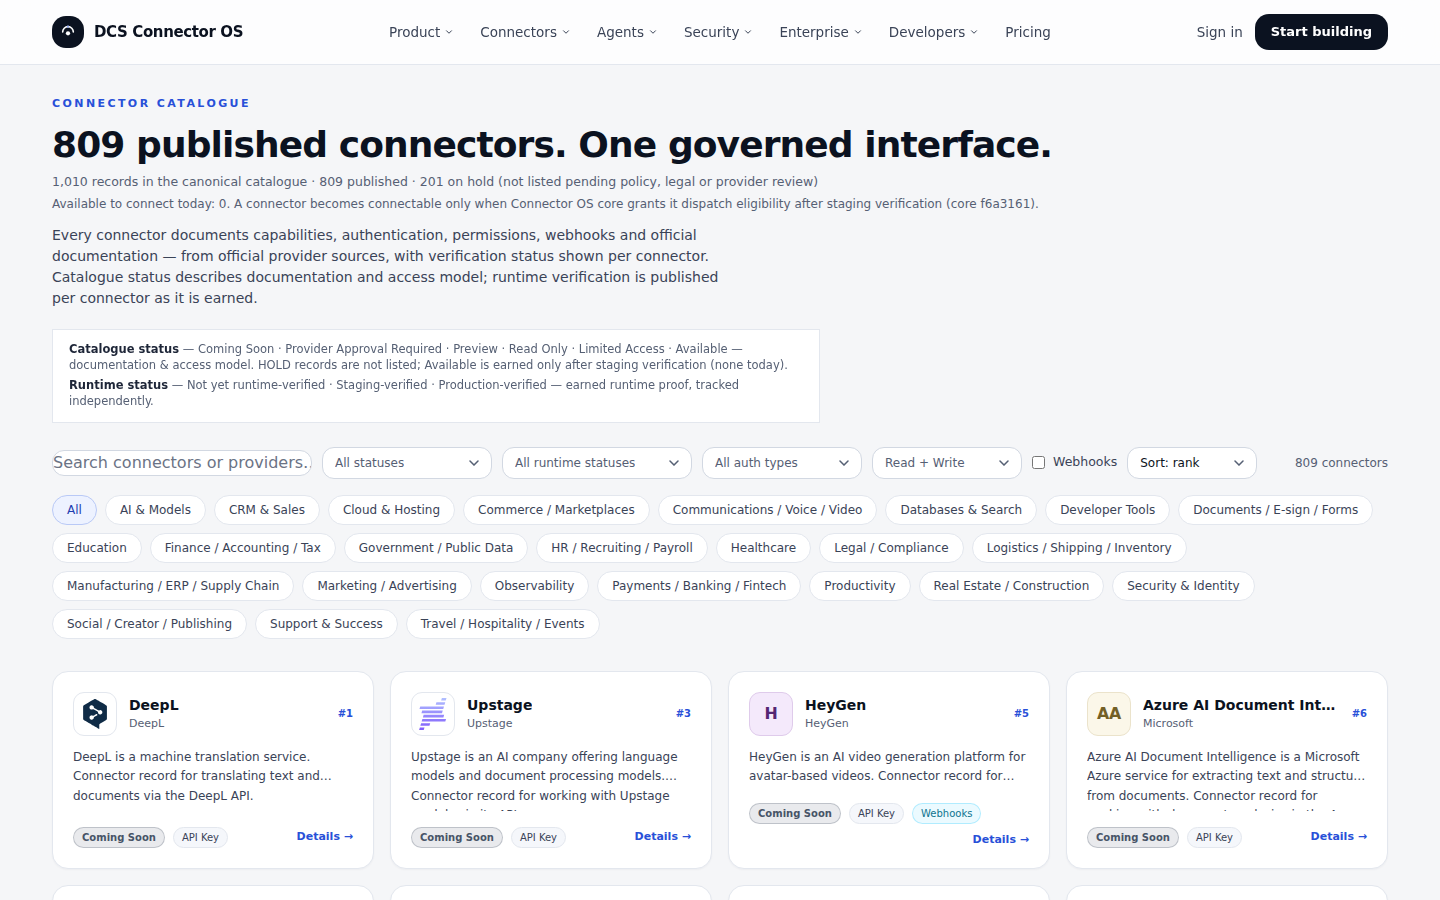
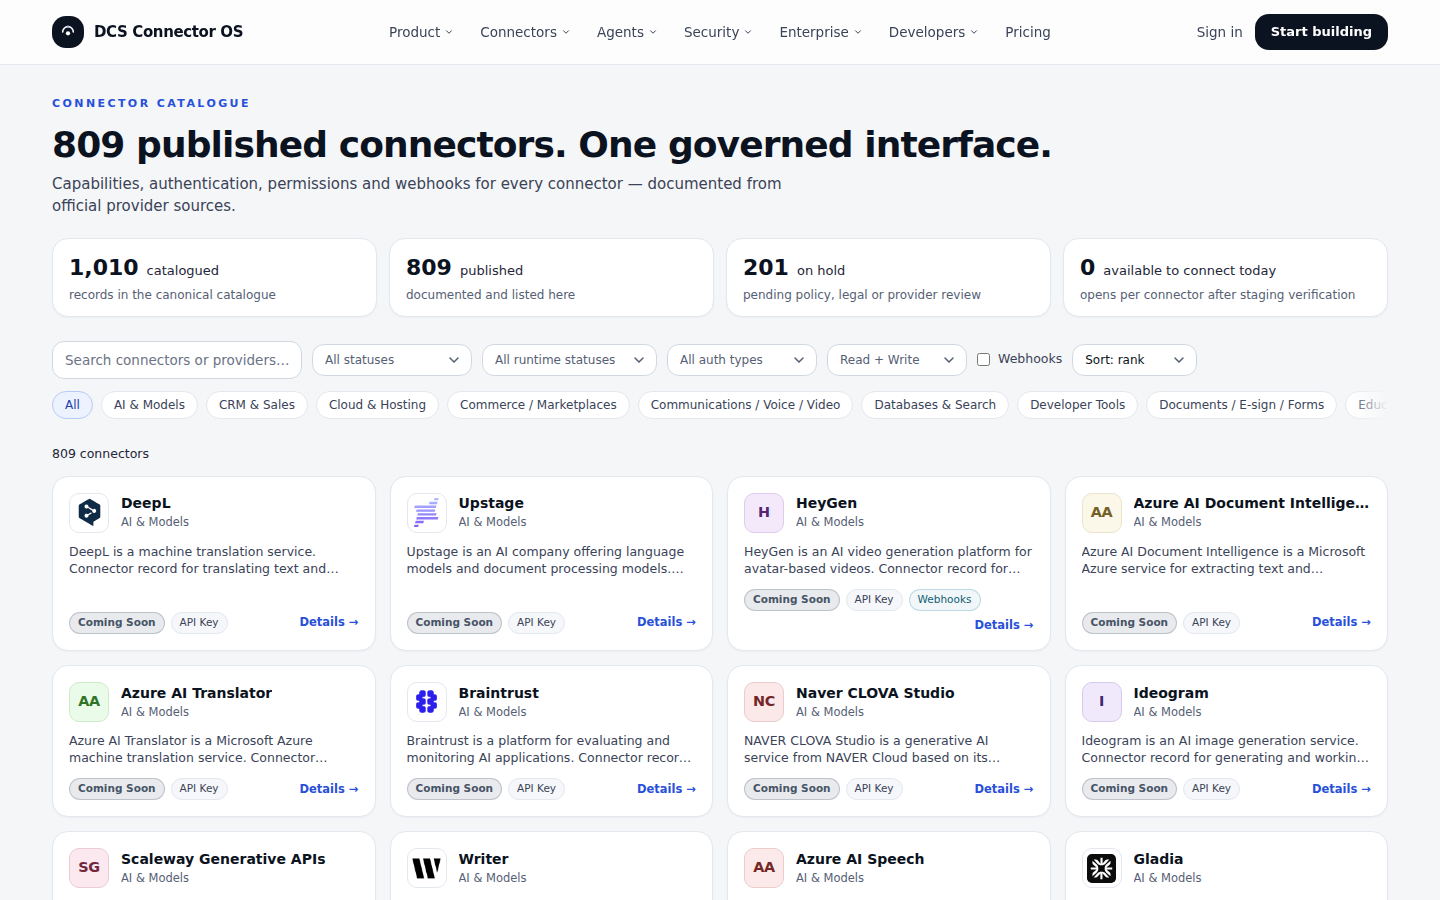
Catalogue page: compact header, stat tiles, one-row categories, tighter cards
- Header: heading + one line; counts become four derived stat tiles
  (catalogued / published / on hold / available to connect today)
- Status legend moves to a two-line note at the end of the page (with core head)
- Filters on one line; categories in one scrollable row instead of four;
  result count + Clear filters above the grid
- Cards: category instead of provider, 2-line description (clamp fixed),
  engineering rank moved off the card (still on the detail page); 4 per row
- Phone: compact tiles, filters behind a Filters (n) button; first card visible
  on the first screen; e2e covers the toggle

Claude-Session: https://claude.ai/code/session_014G6CRjB5deV2ypoDAYzgL6

diff --git a/src/pages/Connectors.tsx b/src/pages/Connectors.tsx
@@ -93,7 +93,9 @@ export function Connectors() {
   const [sort, setSort] = useState<'rank' | 'az'>('rank')
   const [shown, setShown] = useState(PAGE)
   const [legacyShown, setLegacyShown] = useState(LEGACY_PAGE)
+  const [filtersOpen, setFiltersOpen] = useState(false)
 
+  const activeFilters = [status, runtime, auth, rw].filter(Boolean).length + (wh ? 1 : 0)
   const filtered = useMemo(() => {
     let list = CONNECTORS.filter((c) =>
       (cat === 'All' || c.cat === cat) &&
@@ -128,73 +130,95 @@ export function Connectors() {
     <div className="pt-24 pb-16">
       <div className="mx-auto max-w-[1400px] px-4 sm:px-8">
         <div className="eyebrow mb-3">Connector catalogue</div>
-        <h1 className="text-4xl font-semibold tracking-tight text-[#0B1220]">{PUBLISHED_COUNT} published connectors. One governed interface.</h1>
-        <p className="mt-2 text-[12.5px] text-[#566074]" data-testid="catalogue-counts">
-          {TOTAL_CATALOGUED.toLocaleString('en-US')} records in the canonical catalogue · {PUBLISHED_COUNT} published · {UNPUBLISHED_COUNT} on hold (not listed pending policy, legal or provider review)
-        </p>
-        <p className="mt-1 text-[12px] text-[#566074]" data-testid="availability-line">
-          Available to connect today: {AVAILABLE_TO_CONNECT_COUNT}. A connector becomes connectable only when Connector OS core grants it dispatch eligibility after staging verification{CORE_HEAD ? ` (core ${CORE_HEAD.slice(0, 7)})` : ''}.
-        </p>
-        <p className="mt-3 max-w-2xl text-[14px] text-[#3A4357]">
-          Every connector documents capabilities, authentication, permissions, webhooks and official documentation — from official provider sources, with verification status shown per connector. Catalogue status describes documentation and access model; runtime verification is published per connector as it is earned.
+        <h1 className="text-[26px] leading-tight sm:text-4xl font-semibold tracking-tight text-[#0B1220]">{PUBLISHED_COUNT} published connectors. One governed interface.</h1>
+        <p className="mt-2 max-w-3xl text-[14px] sm:text-[15px] text-[#3A4357]">
+          Capabilities, authentication, permissions and webhooks for every connector — documented from official provider sources.
         </p>
 
-        {/* Legend: catalogue status (6) vs runtime status (3) — two independent fields, never merged.
-             This legend is static copy by design: it does NOT change with the claim level. */}
-        <div className="mt-5 glass-panel px-4 py-3 text-[11.5px] leading-snug text-[#566074] max-w-3xl">
-          <div><span className="font-semibold text-[#1E2638]">Catalogue status</span> — Coming Soon · Provider Approval Required · Preview · Read Only · Limited Access · Available — documentation &amp; access model. HOLD records are not listed; Available is earned only after staging verification (none today).</div>
-          <div className="mt-1"><span className="font-semibold text-[#1E2638]">Runtime status</span> — Not yet runtime-verified · Staging-verified · Production-verified — earned runtime proof, tracked independently.</div>
-        </div>
+        {/* every figure is derived from the core-generated catalogue */}
+        <dl className="mt-5 grid grid-cols-2 lg:grid-cols-4 gap-2 sm:gap-3" data-testid="catalogue-counts"
+          aria-label={`${TOTAL_CATALOGUED.toLocaleString('en-US')} records in the canonical catalogue · ${PUBLISHED_COUNT} published · ${UNPUBLISHED_COUNT} on hold`}>
+          {[
+            { k: TOTAL_CATALOGUED.toLocaleString('en-US'), v: 'catalogued', d: 'records in the canonical catalogue' },
+            { k: String(PUBLISHED_COUNT), v: 'published', d: 'documented and listed here' },
+            { k: String(UNPUBLISHED_COUNT), v: 'on hold', d: 'pending policy, legal or provider review' },
+            { k: String(AVAILABLE_TO_CONNECT_COUNT), v: 'available to connect today', d: 'opens per connector after staging verification', testid: 'availability-line' },
+          ].map((x) => (
+            <div key={x.v} className="glass-card px-3 py-2 sm:px-4 sm:py-3" data-testid={x.testid}>
+              <dt className="sr-only">{x.v}</dt>
+              <dd className="flex items-baseline gap-2"><span className="text-[19px] sm:text-[22px] font-semibold tabular-nums text-[#0B1220]">{x.k}</span><span className="text-[12.5px] sm:text-[13px] font-medium text-[#1E2638] leading-tight">{x.v}</span></dd>
+              <dd className="mt-0.5 hidden sm:block text-[12px] text-[#566074]">{x.d}</dd>
+            </div>
+          ))}
+        </dl>
 
         <div className="mt-6 flex flex-wrap items-center gap-2.5">
-          <input value={q} onChange={(e) => { setQ(e.target.value); setShown(PAGE) }} placeholder="Search connectors or providers…" aria-label="Search connectors" className="dcs-input w-full sm:w-[260px]" />
-          <FilterSelect ariaLabel="Catalogue status filter" width={170} value={status}
+          <div className="flex w-full gap-2 sm:w-auto">
+            <input value={q} onChange={(e) => { setQ(e.target.value); setShown(PAGE) }} placeholder="Search connectors or providers…" aria-label="Search connectors" className="dcs-input min-w-0 flex-1 sm:w-[250px] sm:flex-none px-3 py-2 text-[13.5px]" />
+            <button type="button" className="chip sm:hidden !rounded-xl" aria-expanded={filtersOpen} aria-controls="catalogue-filters" onClick={() => setFiltersOpen((o) => !o)}>
+              Filters{activeFilters ? ` (${activeFilters})` : ''}
+            </button>
+          </div>
+          <div id="catalogue-filters" className={`${filtersOpen ? 'flex' : 'hidden'} sm:contents flex-wrap items-center gap-2.5`}>
+          <FilterSelect ariaLabel="Catalogue status filter" width={160} value={status}
             onChange={(v) => { setStatus(v); setShown(PAGE) }}
             options={[{ value: '', label: 'All statuses' }, ...STATUSES.map((s) => ({ value: s, label: s }))]} />
-          <FilterSelect ariaLabel="Runtime status filter" width={190} value={runtime}
+          <FilterSelect ariaLabel="Runtime status filter" width={175} value={runtime}
             onChange={(v) => { setRuntime(v); setShown(PAGE) }}
             options={[{ value: '', label: 'All runtime statuses' }, ...RUNTIME_STATUSES.map((s) => ({ value: s, label: s }))]} />
-          <FilterSelect ariaLabel="Authentication filter" width={160} value={auth}
+          <FilterSelect ariaLabel="Authentication filter" width={150} value={auth}
             onChange={(v) => { setAuth(v); setShown(PAGE) }}
             options={[{ value: '', label: 'All auth types' }, ...AUTH_TYPES.map((a) => ({ value: a, label: a }))]} />
-          <FilterSelect ariaLabel="Read/write filter" width={150} value={rw}
+          <FilterSelect ariaLabel="Read/write filter" width={140} value={rw}
             onChange={(v) => { setRw(v); setShown(PAGE) }}
             options={[{ value: '', label: 'Read + Write' }, { value: 'Read only', label: 'Read only' }, { value: 'write', label: 'Supports write' }]} />
           <label className="flex items-center gap-2 text-[12.5px] text-[#3A4357] cursor-pointer">
             <input type="checkbox" checked={wh} onChange={(e) => { setWh(e.target.checked); setShown(PAGE) }} className="accent-[#2850D8]" /> Webhooks
           </label>
-          <FilterSelect ariaLabel="Sort order" width={130} value={sort}
+          <FilterSelect ariaLabel="Sort order" width={125} value={sort}
             onChange={(v) => setSort(v as 'rank' | 'az')}
             options={[{ value: 'rank', label: 'Sort: rank' }, { value: 'az', label: 'Sort: A–Z' }]} />
-          <span className="ml-auto text-[12px] text-[#566074]" data-testid="result-count">{filtered.length} connectors</span>
+          </div>
         </div>
 
-        <div className="mt-4 flex flex-wrap gap-2">
-          {CATEGORIES.map((c) => (
-            <button key={c} onClick={() => { setCat(c); setShown(PAGE) }} className={`chip ${cat === c ? 'active' : ''}`}>{c}</button>
-          ))}
+        {/* categories: one scrollable row instead of four wrapped rows */}
+        <div className="relative mt-3">
+          <div className="flex gap-2 overflow-x-auto pb-1.5 [scrollbar-width:thin]" role="group" aria-label="Category">
+            {CATEGORIES.map((c) => (
+              <button key={c} onClick={() => { setCat(c); setShown(PAGE) }} aria-pressed={cat === c} className={`chip shrink-0 whitespace-nowrap !py-1 !px-3 ${cat === c ? 'active' : ''}`}>{c}</button>
+            ))}
+          </div>
+          <div aria-hidden className="pointer-events-none absolute right-0 top-0 bottom-1.5 w-10" style={{ background: 'linear-gradient(90deg, rgba(245,246,248,0), #F5F6F8)' }} />
         </div>
 
-        <div className="mt-8 grid grid-cols-1 sm:grid-cols-2 lg:grid-cols-3 xl:grid-cols-4 gap-4">
+        <div className="mt-5 flex items-center gap-3 text-[12.5px] text-[#566074]">
+          <span data-testid="result-count" className="font-medium text-[#1E2638]">{filtered.length} connectors</span>
+          {(q || cat !== 'All' || status || runtime || auth || rw || wh) && (
+            <button type="button" className="font-semibold text-[#2850D8] hover:underline"
+              onClick={() => { setQ(''); setCat('All'); setStatus(''); setRuntime(''); setAuth(''); setRw(''); setWh(false); setShown(PAGE) }}>Clear filters</button>
+          )}
+        </div>
+
+        <div className="mt-3 grid grid-cols-1 sm:grid-cols-2 lg:grid-cols-3 xl:grid-cols-4 gap-3.5">
           {filtered.slice(0, shown).map((c: Conn) => (
-            <a key={c.id} href={`/connectors/${c.id}`} className="glass-card glass-card-hover p-5 flex flex-col">
-              <div className="flex items-center gap-3 mb-3">
-                <ConnectorLogo name={c.n} src={c.logo} size={44} />
+            <a key={c.id} href={`/connectors/${c.id}`} className="glass-card glass-card-hover p-4 flex flex-col">
+              <div className="flex items-center gap-3">
+                <ConnectorLogo name={c.n} src={c.logo} size={40} />
                 <div className="min-w-0">
                   <div className="text-[14px] font-semibold text-[#0B1220] truncate">{c.n}</div>
-                  <div className="text-[11px] text-[#566074] truncate">{c.p}</div>
+                  <div className="text-[11.5px] text-[#566074] truncate">{c.cat}</div>
                 </div>
-                <span className="ml-auto text-[10px] font-bold text-[#2850D8]" title={c.r == null ? `Unranked in core (${c.core?.pack ?? 'no pack'})` : 'Core engineering rank'}>{c.r == null ? c.core?.pack === 'GOLDEN-FIVE' ? 'Golden Five' : 'Unranked' : `#${c.r}`}</span>
               </div>
-              <p className="text-[12px] leading-relaxed text-[#3A4357] line-clamp-2 flex-1">{c.d}</p>
-              <div className="mt-4 flex items-center gap-2 flex-wrap">
-                <span className="text-[10px] font-semibold px-2 py-0.5 rounded-full" style={{ color: statusColor(c.s), background: `${statusColor(c.s)}1f`, border: `1px solid ${statusColor(c.s)}44` }}>{c.s}</span>
+              <p className="mt-2.5 text-[12.5px] leading-snug text-[#3A4357] line-clamp-2">{c.d}</p>
+              <div className="flex-1" />
+              <div className="mt-3 flex items-center gap-1.5 flex-wrap">
+                <span className="text-[10.5px] font-semibold px-2 py-0.5 rounded-full" style={{ color: statusColor(c.s), background: `${statusColor(c.s)}1f`, border: `1px solid ${statusColor(c.s)}44` }}>{c.s}</span>
                 {c.runtime_status && c.runtime_status !== 'not_verified' && (
-                  <span className="text-[10px] px-2 py-0.5 rounded-full text-[#566074]" style={{ background: '#F5F7FB', border: '1px solid #E3E7EE' }}>{runtimeStatusLabel(c)}</span>
+                  <span className="text-[10.5px] px-2 py-0.5 rounded-full text-[#566074]" style={{ background: '#F5F7FB', border: '1px solid #E3E7EE' }}>{runtimeStatusLabel(c)}</span>
                 )}
-                <span className="text-[10px] px-2 py-0.5 rounded-full text-[#3A4357]" style={{ background: '#F5F7FB', border: '1px solid #E3E7EE' }}>{c.auth}</span>
-                {c.wh && <span className="text-[10px] px-2 py-0.5 rounded-full text-[#0E7490]" style={{ background: 'rgba(0,194,255,0.08)', border: '1px solid rgba(0,194,255,0.25)' }}>Webhooks</span>}
-                <span className="ml-auto text-[11px] font-semibold text-[#2850D8]">Details →</span>
+                <span className="text-[10.5px] px-2 py-0.5 rounded-full text-[#3A4357]" style={{ background: '#F5F7FB', border: '1px solid #E3E7EE' }}>{c.auth}</span>
+                {c.wh && <span className="text-[10.5px] px-2 py-0.5 rounded-full text-[#155E75]" style={{ background: 'rgba(14,116,144,0.06)', border: '1px solid rgba(14,116,144,0.22)' }}>Webhooks</span>}
+                <span className="ml-auto text-[11.5px] font-semibold text-[#2850D8]">Details →</span>
               </div>
             </a>
           ))}
@@ -249,6 +273,13 @@ export function Connectors() {
             )}
           </div>
         )}
+
+        {/* Legend: catalogue status vs runtime status — two independent fields, never merged.
+             Static copy by design: it does NOT change with the claim level. */}
+        <div className="mt-14 border-t border-[#E3E7EE] pt-5 text-[12px] leading-relaxed text-[#566074] max-w-4xl">
+          <p><span className="font-semibold text-[#1E2638]">Catalogue status</span> (Coming Soon · Provider Approval Required · Preview · Read Only · Limited Access · Available) describes documentation and access model; Available is earned only after staging verification — none today.</p>
+          <p className="mt-1"><span className="font-semibold text-[#1E2638]">Runtime status</span> (Not yet runtime-verified · Staging-verified · Production-verified) is earned runtime proof, tracked separately. Records on hold are not listed.{CORE_HEAD ? ` Counts and statuses come from Connector OS core ${CORE_HEAD.slice(0, 7)}.` : ''}</p>
+        </div>
       </div>
     </div>
   )

diff --git a/e2e/public.spec.ts b/e2e/public.spec.ts
@@ -13,8 +13,28 @@ test.describe('public catalogue', () => {
   test('counts are derived from the catalogue and consistent', async ({ page }) => {
     await page.goto('/connectors')
     await expect(page.locator('h1')).toContainText(`${PUBLISHED.length} published connectors`)
-    await expect(page.getByTestId('catalogue-counts')).toContainText(
-      `${CANONICAL.length.toLocaleString('en-US')} records in the canonical catalogue · ${PUBLISHED.length} published · ${HOLD.length} on hold`)
+    const counts = page.getByTestId('catalogue-counts')
+    await expect(counts).toHaveAttribute('aria-label', `${CANONICAL.length.toLocaleString('en-US')} records in the canonical catalogue · ${PUBLISHED.length} published · ${HOLD.length} on hold`)
+    await expect(counts).toContainText(`${CANONICAL.length.toLocaleString('en-US')}catalogued`)
+    await expect(counts).toContainText(`${PUBLISHED.length}published`)
+    await expect(counts).toContainText(`${HOLD.length}on hold`)
+    await expect(page.getByTestId('availability-line')).toContainText('0available to connect today')
+    await expect(page.getByTestId('result-count')).toHaveText(`${PUBLISHED.length} connectors`)
+  })
+
+  test('phone: filters fold behind a Filters button; search and categories stay visible', async ({ page }) => {
+    await page.setViewportSize({ width: 390, height: 844 })
+    await page.goto('/connectors')
+    await expect(page.getByLabel('Search connectors')).toBeVisible()
+    await expect(page.getByRole('group', { name: 'Category' })).toBeVisible()
+    const toggle = page.getByRole('button', { name: /^Filters/ })
+    await expect(page.getByRole('button', { name: 'Catalogue status filter' })).toBeHidden()
+    await toggle.click()
+    await expect(toggle).toHaveAttribute('aria-expanded', 'true')
+    await expect(page.getByRole('button', { name: 'Catalogue status filter' })).toBeVisible()
+    await page.getByRole('checkbox', { name: 'Webhooks' }).check()
+    await expect(toggle).toHaveText('Filters (1)')
+    await page.getByRole('button', { name: 'Clear filters' }).click()
     await expect(page.getByTestId('result-count')).toHaveText(`${PUBLISHED.length} connectors`)
   })
 
